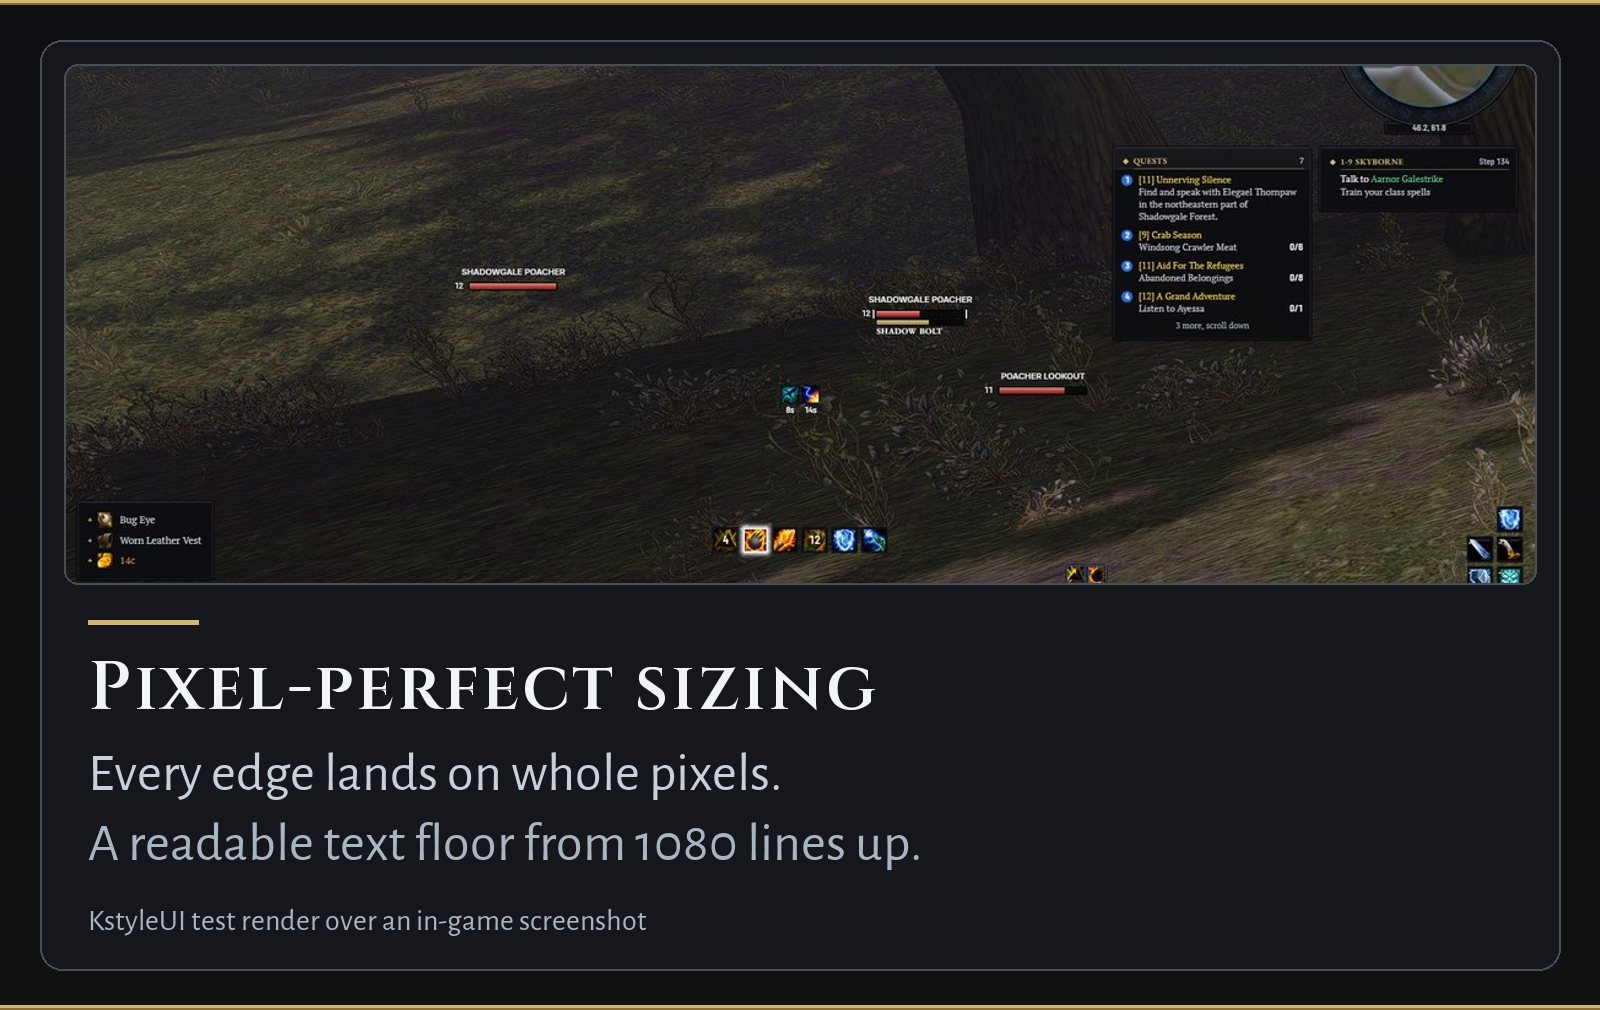
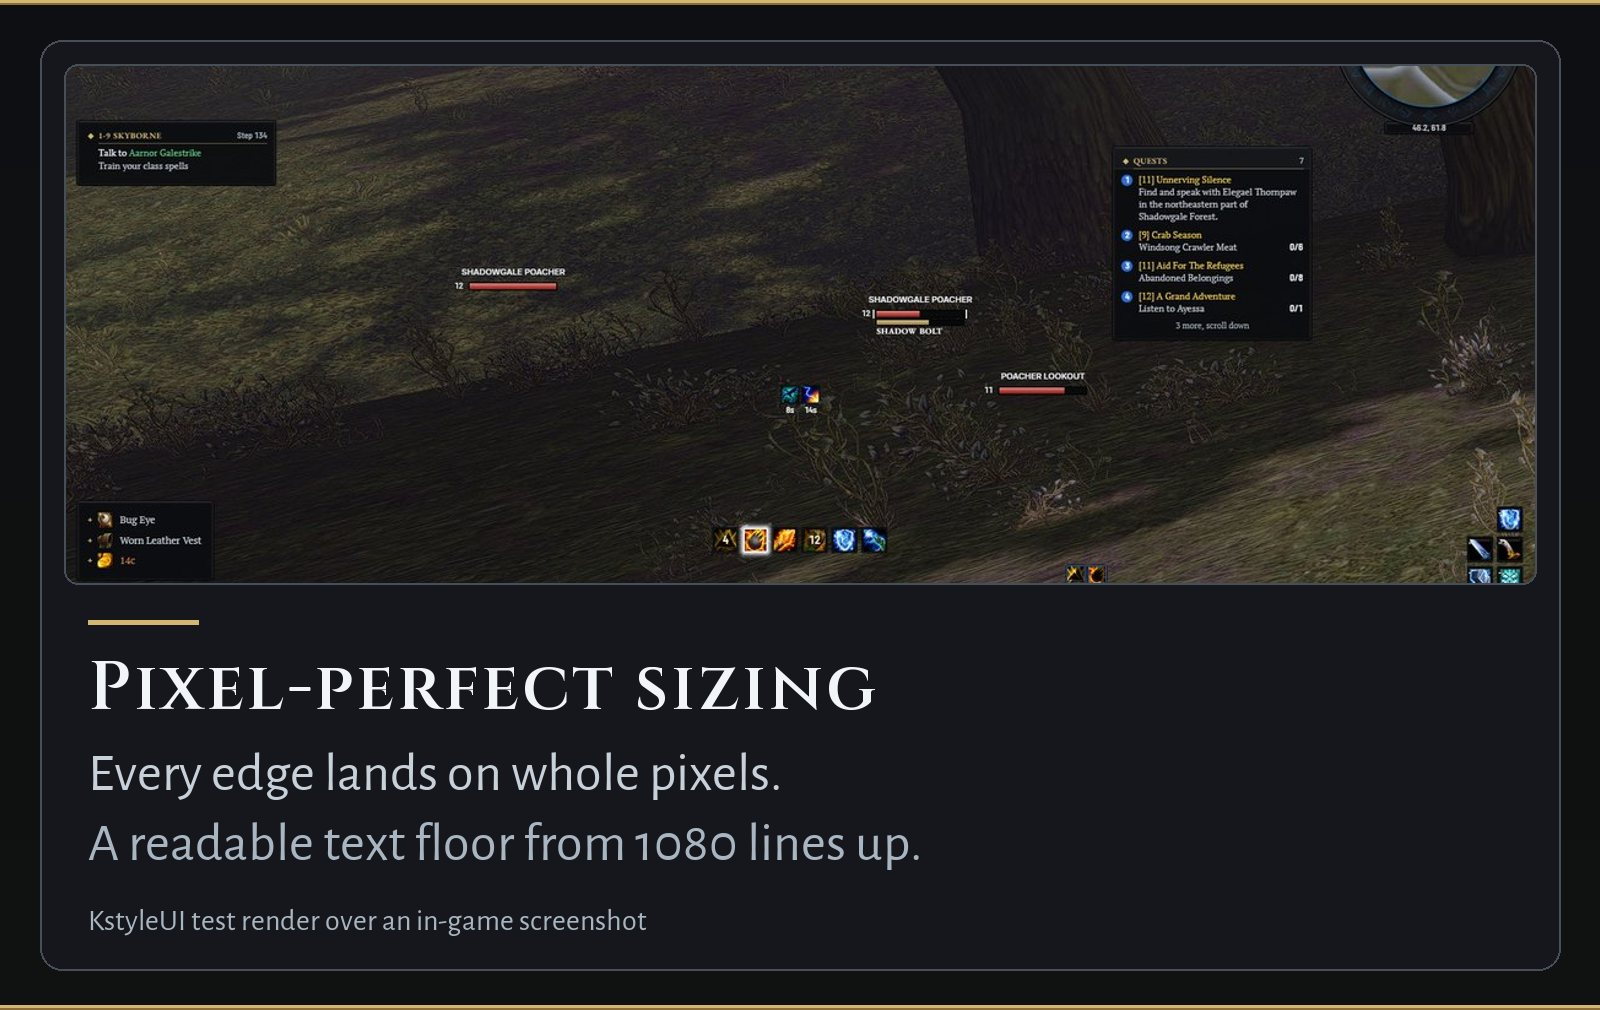
docs: pictures for the guide on the left (#716)
Retake the README and store pictures with Tools/render/readme.py and
Tools/media/marketing.py --pages over the committed forest plates, after
#713 moved the guide card to the top left corner. The rail crop now shows
the map and quest cards only, and its caption and the gallery row say so.
docs/core-visuals.md counts the 32 test-pixel-grid files #714 left.

Changed region(s): [[0.0312, 0.1228, 0.1875, 0.1842], [0.8125, 0.1535, 0.9375, 0.2149]]

diff --git a/docs/core-visuals.md b/docs/core-visuals.md
@@ -246,7 +246,7 @@ Every frame KstyleUI creates should land on whole physical pixels: positions, si
 
 Edges are judged from the relative region's corner, not the screen, so a correction stays right when the region moves. Place again from a `ScaleChanged` handler, and after the relative region resizes. The kit uses the helpers itself: a chrome lays its far corners, ticks and pills out by `Remainder`, so a card on an owner of any size has whole corners, and lays out again when the owner's fraction changes; `Layout` snaps an element's frame again whenever its size changes to one that is not whole (a skin or module that resizes its frame after Apply); the skin kit's overlays and backdrops use `Fill`. A chrome's default corner is still `lines` border lines round, so with one-pixel lines a card's corner is 6 pixels and a socket's 3 at every screen; at 4K and on a 3456x2234 Mac, where the border used to be two pixels, corners and the insets measured in border lines are half as many pixels as before.
 
-`Tools/regression/pixel_audit_lib.lua` checks it. The sixteen `test-pixel-grid-<n>.lua` files build `hud_reference` (DPS) and every gallery at 5120x1440, 3440x1440, 3840x1080, 2560x1440, 1920x1080, 3840x2160 and 1280x720. They walk every texture, line, cooldown swipe and font string KstyleUI's own code made (the stubs record the file that made and placed each region while `PIXEL_AUDIT` is set) and judge each edge before the renderer rounds it: a texture's four edges, the fixed edges of a status bar's fill and of a region laid on its moving end (an edge whose own point is anchored to that end a whole number of pixels from it is the fill's), and a font string's anchor points. A frame whose own translation is part way, or has ended in a group whose OnFinished takes the frame away, is judged at its place, not mid-flight; a finished group without one stays at its end offset. An edge is measured from the corner of the nearest frame KstyleUI does not place (a Blizzard window, another addon's frame, a gallery's own arrangement); an edge anchored to a side of a font string that its glyphs place (not one its own points or an explicit width or height fix) is the font's and is not judged. Each offender is blamed on the code that placed the outermost off-grid frame above it. A region the helpers placed is blamed on the code that called the helper, and a replay keeps the file that placed the region first, so converting a file to the helpers moves no count into `Core/Widgets/Base.lua`. The stubs run `OnSizeChanged` on a frame spanned on a target whose size changes, as the game does. `Tools/regression/pixel_allow.tsv` carries, per scene, screen and file, the regions that may still be off: a count that rises fails, and a count that falls fails until its line is lowered, so the list only shrinks. `lua5.1 Tools/dev/pixel_allow.lua` measures the matrix and rewrites it.
+`Tools/regression/pixel_audit_lib.lua` checks it. The 32 `test-pixel-grid-<n>.lua` files build `hud_reference` (DPS) and every gallery at 5120x1440, 3440x1440, 3840x1080, 2560x1440, 1920x1080, 3840x2160 and 1280x720. They walk every texture, line, cooldown swipe and font string KstyleUI's own code made (the stubs record the file that made and placed each region while `PIXEL_AUDIT` is set) and judge each edge before the renderer rounds it: a texture's four edges, the fixed edges of a status bar's fill and of a region laid on its moving end (an edge whose own point is anchored to that end a whole number of pixels from it is the fill's), and a font string's anchor points. A frame whose own translation is part way, or has ended in a group whose OnFinished takes the frame away, is judged at its place, not mid-flight; a finished group without one stays at its end offset. An edge is measured from the corner of the nearest frame KstyleUI does not place (a Blizzard window, another addon's frame, a gallery's own arrangement); an edge anchored to a side of a font string that its glyphs place (not one its own points or an explicit width or height fix) is the font's and is not judged. Each offender is blamed on the code that placed the outermost off-grid frame above it. A region the helpers placed is blamed on the code that called the helper, and a replay keeps the file that placed the region first, so converting a file to the helpers moves no count into `Core/Widgets/Base.lua`. The stubs run `OnSizeChanged` on a frame spanned on a target whose size changes, as the game does. `Tools/regression/pixel_allow.tsv` carries, per scene, screen and file, the regions that may still be off: a count that rises fails, and a count that falls fails until its line is lowered, so the list only shrinks. `lua5.1 Tools/dev/pixel_allow.lua` measures the matrix and rewrites it.
 
 `Setup.Layouts.ScaleLimit(width, height, preset, enabled)` computes the largest fit to sub-pixel search precision, down to the slider's minimum 0.6; a screen whose size cannot be read gets the shipped `16 / 19`. It checks the preset's default Medallions footprints and story slot, not saved positions or sizes. `Layouts.Enabled(preset, profile)` snapshots the current profile's module and element switches; Scale passes that map to the limit. Without a map, `ScaleLimit` and `Fits` use the preset's configured switches (`Layouts.Shown`), not every reserved slot. Disabled modules, bars and other explicit element switches do not constrain the limit; enabled focus, boss, threat and other situational elements still do, without reading live visibility. Separate cast-bar slots count only when the frame style and cast-bar switches configure them. The story slot remains reserved for the quest tracker, even without its skin.
 

diff --git a/docs/store/wago.md b/docs/store/wago.md
@@ -203,11 +203,11 @@ The meter follows your role: threat when you tank, damage otherwise. As DPS you 
 
 One class-coloured bar per player. Switch between this fight, the last fight and the whole session; point at a damage row for that player's spell split.
 
-### Quests, guide and map on the right
+### Quests and map on the right, guide on the left
 
-![KstyleUI test render over an in-game screenshot of the addon's right rail: your buffs beside the round minimap with the zone and coordinates, the quest card under the map and the RestedXP guide card beside it](https://raw.githubusercontent.com/korallis/KstyleUI/main/docs/media/marketing/show_crop_rail.jpg)
+![KstyleUI test render over an in-game screenshot of the addon's right rail: your buffs beside the round minimap with the zone and coordinates, and the quest card under the map](https://raw.githubusercontent.com/korallis/KstyleUI/main/docs/media/marketing/show_crop_rail.jpg)
 
-*KstyleUI test render over an in-game screenshot: the right rail - map card, quest card and guide card. Icons in this picture are the optional AI-made icon pack, not art shipped in the addon.*
+*KstyleUI test render over an in-game screenshot: the right rail - map card and quest card. Icons in this picture are the optional AI-made icon pack, not art shipped in the addon.*
 
 Your buffs sit beside a round map with the zone and your coordinates. The quest card keeps your quests in view and scrolls for the rest. With a RestedXP or Zygor Guides Viewer guide open, the guide gets a forged card of its own in the top left corner, above your party frames, and RestedXP's target and item boxes dock underneath. The minimap's drawer collects every addon button cluttering the map.
 
@@ -360,7 +360,7 @@ Upload in this order. The gallery description is the caption.
 | `gallery/04-setup.jpg` | 720×523 | First-run setup | KstyleUI test render over an in-game screenshot of the first-run setup on its layout step: DPS, Tank and Healer cards, each with a picture of its layout. |
 | `gallery/05-nameplates.jpg` | 800×466 | Nameplates | KstyleUI test render over an in-game screenshot of the nameplates in combat: a targeted beast, an elite, a rare, a world boss and a friendly player. Icons in this picture are the optional AI-made icon pack, not art shipped in the addon. |
 | `gallery/06-meter.jpg` | 490×320 | Damage meter | KstyleUI test render over an in-game screenshot of the damage meter in a party of five, one class-coloured bar per player. Icons in this picture are the optional AI-made icon pack, not art shipped in the addon. |
-| `gallery/07-quests.jpg` | 660×678 | Map, quests and guide | KstyleUI test render over an in-game screenshot of the right rail: the map card, the quest card and the guide card. Icons in this picture are the optional AI-made icon pack, not art shipped in the addon. |
+| `gallery/07-quests.jpg` | 660×678 | Map and quests | KstyleUI test render over an in-game screenshot of the right rail: the map card and the quest card. Icons in this picture are the optional AI-made icon pack, not art shipped in the addon. |
 | `gallery/08-medallion-closeup.gif` | 800×166 | Target medallion | In-game screenshot: selecting a target brings in the target medallion, and its red ring pulses at low health. Icons in this picture are the optional AI-made icon pack, not art shipped in the addon. |
 
 The upload page for a project, once it exists, is `https://addons.wago.io/developers/projects/<slug>/gallery/create`.

diff --git a/docs/store/curseforge.md b/docs/store/curseforge.md
@@ -216,11 +216,11 @@ The meter follows your role: threat when you tank, damage otherwise. As DPS you 
 
 One class-coloured bar per player. Switch between this fight, the last fight and the whole session; point at a damage row for that player's spell split.
 
-### Quests, guide and map on the right
+### Quests and map on the right, guide on the left
 
-![KstyleUI test render over an in-game screenshot of the addon's right rail: your buffs beside the round minimap with the zone and coordinates, the quest card under the map and the RestedXP guide card beside it](https://raw.githubusercontent.com/korallis/KstyleUI/main/docs/media/marketing/show_crop_rail.jpg)
+![KstyleUI test render over an in-game screenshot of the addon's right rail: your buffs beside the round minimap with the zone and coordinates, and the quest card under the map](https://raw.githubusercontent.com/korallis/KstyleUI/main/docs/media/marketing/show_crop_rail.jpg)
 
-*KstyleUI test render over an in-game screenshot: the right rail - map card, quest card and guide card. Icons in this picture are the optional AI-made icon pack, not art shipped in the addon.*
+*KstyleUI test render over an in-game screenshot: the right rail - map card and quest card. Icons in this picture are the optional AI-made icon pack, not art shipped in the addon.*
 
 Your buffs sit beside a round map with the zone and your coordinates. The quest card keeps your quests in view and scrolls for the rest. With a RestedXP or Zygor Guides Viewer guide open, the guide gets a forged card of its own in the top left corner, above your party frames, and RestedXP's target and item boxes dock underneath. The minimap's drawer collects every addon button cluttering the map.
 
@@ -367,5 +367,5 @@ Upload in this order. Title, then caption.
 | `gallery/04-setup.jpg` | 720×523 | First-run setup | KstyleUI test render over an in-game screenshot of the first-run setup on its layout step: DPS, Tank and Healer cards, each with a picture of its layout. |
 | `gallery/05-nameplates.jpg` | 800×466 | Nameplates | KstyleUI test render over an in-game screenshot of the nameplates in combat: a targeted beast, an elite, a rare, a world boss and a friendly player. Icons in this picture are the optional AI-made icon pack, not art shipped in the addon. |
 | `gallery/06-meter.jpg` | 490×320 | Damage meter | KstyleUI test render over an in-game screenshot of the damage meter in a party of five, one class-coloured bar per player. Icons in this picture are the optional AI-made icon pack, not art shipped in the addon. |
-| `gallery/07-quests.jpg` | 660×678 | Map, quests and guide | KstyleUI test render over an in-game screenshot of the right rail: the map card, the quest card and the guide card. Icons in this picture are the optional AI-made icon pack, not art shipped in the addon. |
+| `gallery/07-quests.jpg` | 660×678 | Map and quests | KstyleUI test render over an in-game screenshot of the right rail: the map card and the quest card. Icons in this picture are the optional AI-made icon pack, not art shipped in the addon. |
 | `gallery/08-medallion-closeup.gif` | 800×166 | Target medallion | In-game screenshot: selecting a target brings in the target medallion, and its red ring pulses at low health. Icons in this picture are the optional AI-made icon pack, not art shipped in the addon. |

diff --git a/README.md b/README.md
@@ -186,11 +186,11 @@ The meter follows your role: threat when you tank, damage otherwise. As DPS you 
 
 One class-coloured bar per player. Switch between this fight, the last fight and the whole session; point at a damage row for that player's spell split.
 
-### Quests, guide and map on the right
+### Quests and map on the right, guide on the left
 
-![KstyleUI test render over an in-game screenshot of the addon's right rail: your buffs beside the round minimap with the zone and coordinates, the quest card under the map and the RestedXP guide card beside it](https://raw.githubusercontent.com/korallis/KstyleUI/main/docs/media/marketing/show_crop_rail.jpg)
+![KstyleUI test render over an in-game screenshot of the addon's right rail: your buffs beside the round minimap with the zone and coordinates, and the quest card under the map](https://raw.githubusercontent.com/korallis/KstyleUI/main/docs/media/marketing/show_crop_rail.jpg)
 
-*KstyleUI test render over an in-game screenshot: the right rail - map card, quest card and guide card. Icons in this picture are the optional AI-made icon pack, not art shipped in the addon.*
+*KstyleUI test render over an in-game screenshot: the right rail - map card and quest card. Icons in this picture are the optional AI-made icon pack, not art shipped in the addon.*
 
 Your buffs sit beside a round map with the zone and your coordinates. The quest card keeps your quests in view and scrolls for the rest. With a RestedXP or Zygor Guides Viewer guide open, the guide gets a forged card of its own in the top left corner, above your party frames, and RestedXP's target and item boxes dock underneath. The minimap's drawer collects every addon button cluttering the map.
 

diff --git a/docs/store/description.md b/docs/store/description.md
@@ -180,11 +180,11 @@ The meter follows your role: threat when you tank, damage otherwise. As DPS you 
 
 One class-coloured bar per player. Switch between this fight, the last fight and the whole session; point at a damage row for that player's spell split.
 
-### Quests, guide and map on the right
+### Quests and map on the right, guide on the left
 
-![KstyleUI test render over an in-game screenshot of the addon's right rail: your buffs beside the round minimap with the zone and coordinates, the quest card under the map and the RestedXP guide card beside it](https://raw.githubusercontent.com/korallis/KstyleUI/main/docs/media/marketing/show_crop_rail.jpg)
+![KstyleUI test render over an in-game screenshot of the addon's right rail: your buffs beside the round minimap with the zone and coordinates, and the quest card under the map](https://raw.githubusercontent.com/korallis/KstyleUI/main/docs/media/marketing/show_crop_rail.jpg)
 
-*KstyleUI test render over an in-game screenshot: the right rail - map card, quest card and guide card. Icons in this picture are the optional AI-made icon pack, not art shipped in the addon.*
+*KstyleUI test render over an in-game screenshot: the right rail - map card and quest card. Icons in this picture are the optional AI-made icon pack, not art shipped in the addon.*
 
 Your buffs sit beside a round map with the zone and your coordinates. The quest card keeps your quests in view and scrolls for the rest. With a RestedXP or Zygor Guides Viewer guide open, the guide gets a forged card of its own in the top left corner, above your party frames, and RestedXP's target and item boxes dock underneath. The minimap's drawer collects every addon button cluttering the map.
 
